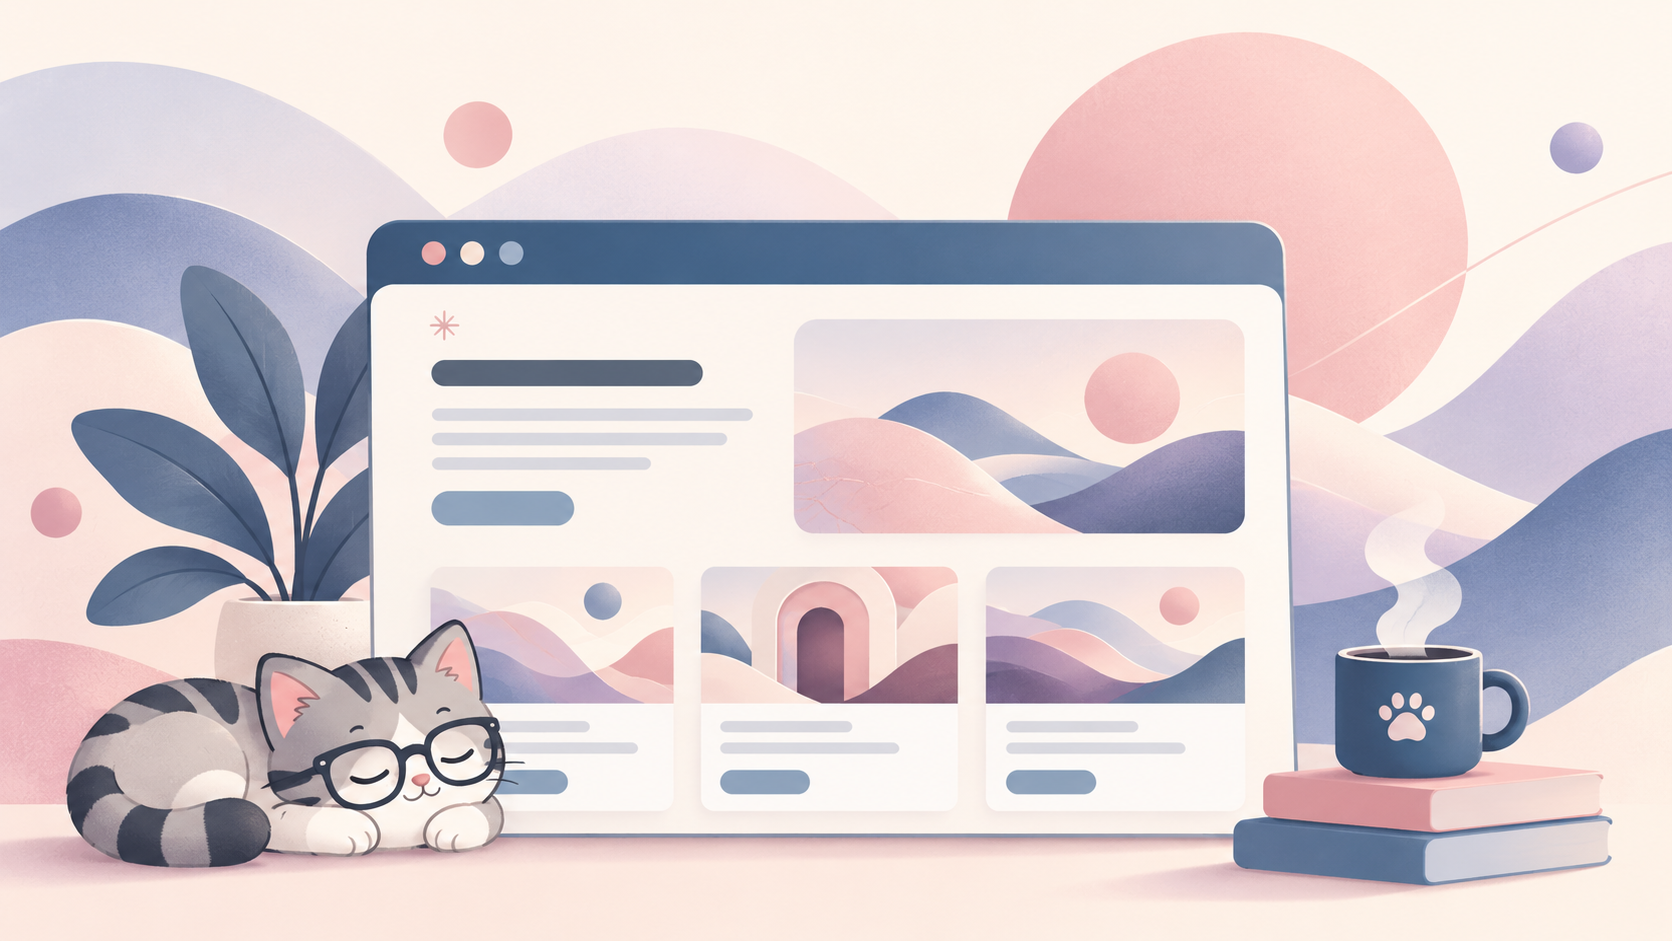
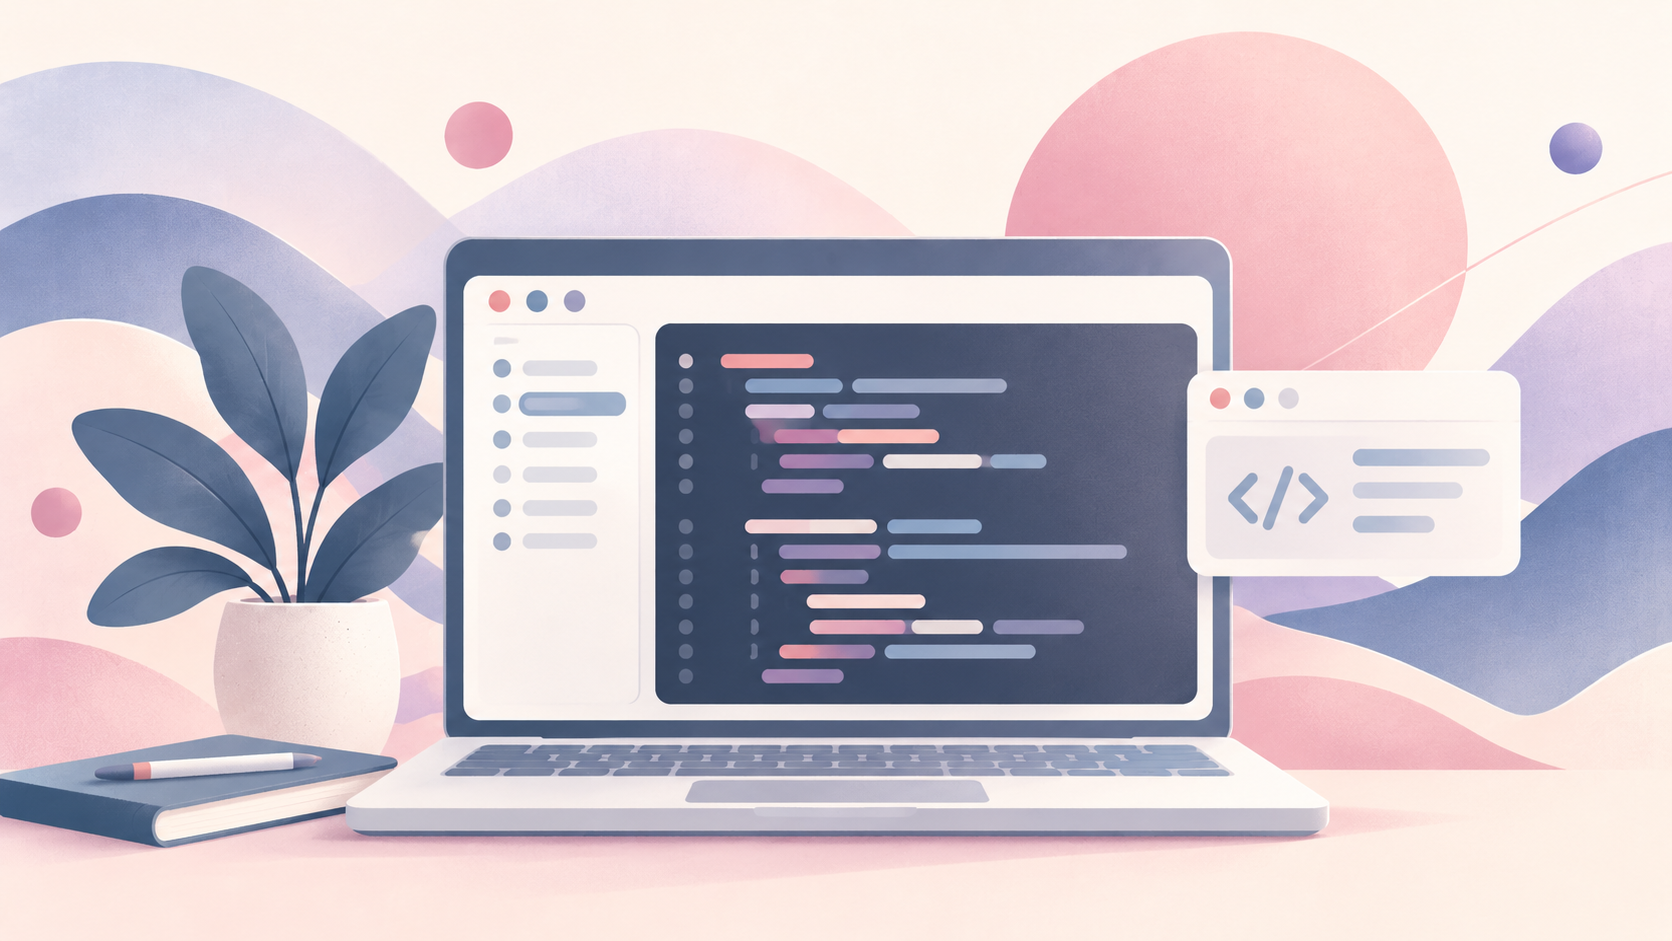
https://github.com/nataliedeleeuw/min-sida-experiment

diff --git a/src/components/OmMig.css b/src/components/OmMig.css
@@ -1,7 +1,53 @@
 .om-mig {
   background-color: #FCF5F6;
   padding: 80px 32px;
-  text-align: center;
+}
+
+.om-mig-card {
+  position: relative;
+  max-width: 800px;
+  margin: 0 auto;
+  padding: 32px 56px;
+
+  background-color: #FFFAF5;
+  border-radius: 18px;
+
+  box-shadow: 0 12px 32px rgba(28, 32, 39, 0.07);
+
+  text-align: left;
+  overflow: hidden;
+}
+
+/* Decorative blue accent */
+.om-mig-card::before {
+  content: "";
+  position: absolute;
+
+  top: 0;
+  left: 0;
+
+  width: 7px;
+  height: 100%;
+
+  background-color: #4C78A5;
+}
+
+/* Soft pink circle in the corner */
+.om-mig-card::after {
+  content: "";
+  position: absolute;
+
+  width: 110px;
+  height: 110px;
+
+  top: -60px;
+  right: -40px;
+
+  background-color: #E3B7B3;
+  border-radius: 50%;
+
+  opacity: 0.55;
+  pointer-events: none;
 }
 
 .om-mig h2 {
@@ -9,20 +55,23 @@
   font-family: 'Outfit', sans-serif;
   font-size: 32px;
   font-weight: 700;
-  margin-bottom: 24px;
+  margin: 0 0 24px;
 }
 
 .om-mig p {
   color: #4E5059;
   font-size: 18px;
   line-height: 1.8;
-  max-width: 650px;
-  margin: 0 auto;
+  margin: 0;
 }
 
 @media (max-width: 600px) {
   .om-mig {
     padding: 48px 20px;
+  }
+
+  .om-mig-card {
+    padding: 32px 28px;
   }
 
   .om-mig h2 {

diff --git a/src/components/OmMig.jsx b/src/components/OmMig.jsx
@@ -1,9 +1,21 @@
 import "./OmMig.css";
+
 function OmMig() {
   return (
     <section className="om-mig" id="om-mig">
-      <h2>Om mig</h2>
-      <p>Jag heter Natalie och tycker om att lära mig nya saker. Mina intressen är ganska blandade, men psykologi, skrivande och teknik är några av dem. Nu har jag också börjat lära mig programmering, vilket hittills verkar vara en ganska bra kombination av problemlösning, kreativitet och att undra varför något som fungerade för fem minuter sedan plötsligt inte fungerar alls.</p>
+      <div className="om-mig-card">
+        <h2>Om mig</h2>
+
+        <p>
+          Jag heter Natalie och tycker om att lära mig nya saker.
+          Mina intressen är ganska blandade, men psykologi, skrivande
+          och teknik är några av dem. Nu har jag också börjat lära mig
+          programmering, vilket hittills verkar vara en ganska bra
+          kombination av problemlösning, kreativitet och att undra
+          varför något som fungerade för fem minuter sedan plötsligt
+          inte fungerar alls.
+        </p>
+      </div>
     </section>
   );
 }

diff --git a/src/components/ProjektKort.css b/src/components/ProjektKort.css
@@ -6,6 +6,11 @@
   box-shadow: 0 2px 8px rgba(74, 46, 81, 0.12);
   display: flex;
   flex-direction: column;
+  transition: transform 0.25s ease, box-shadow 0.25s ease;
+}
+.projekt-kort:hover {
+  transform: translateY(-5px);
+  box-shadow: 0 12px 24px rgba(28, 32, 39, 0.12);
 }
 
 .projekt-bild {
